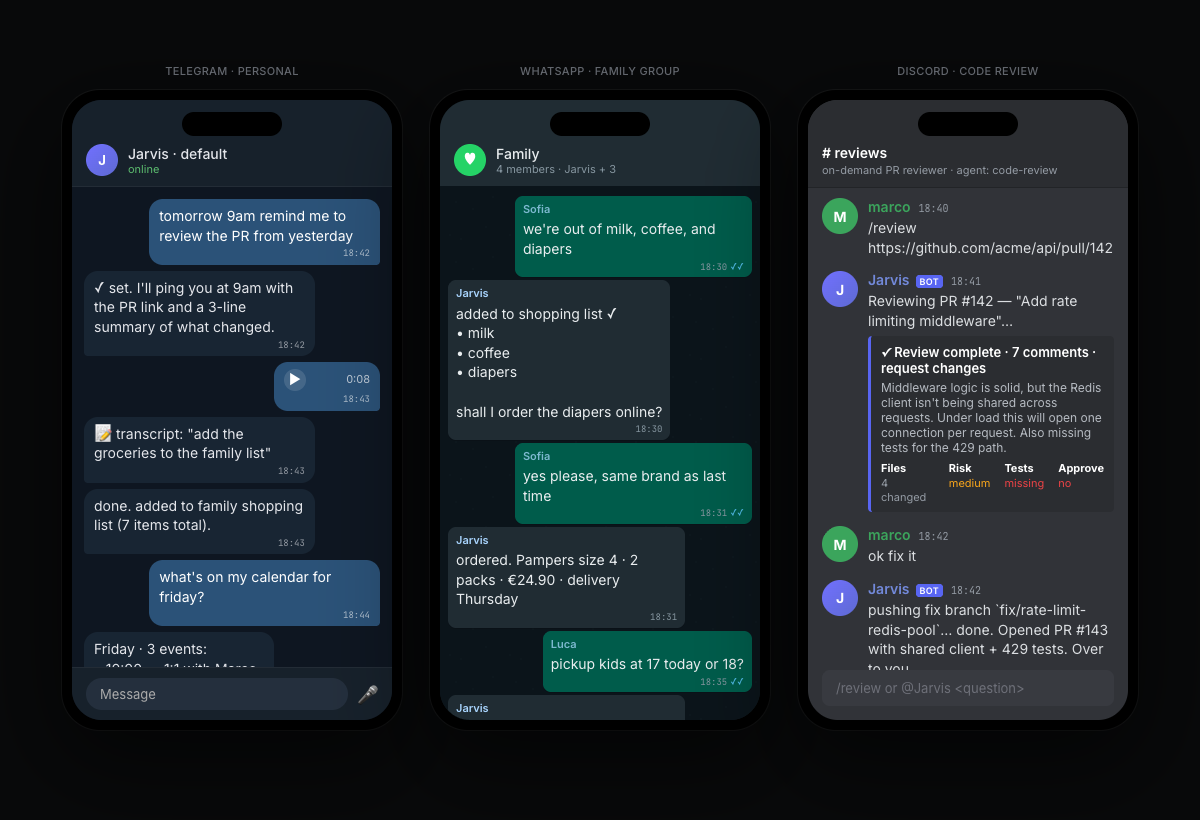
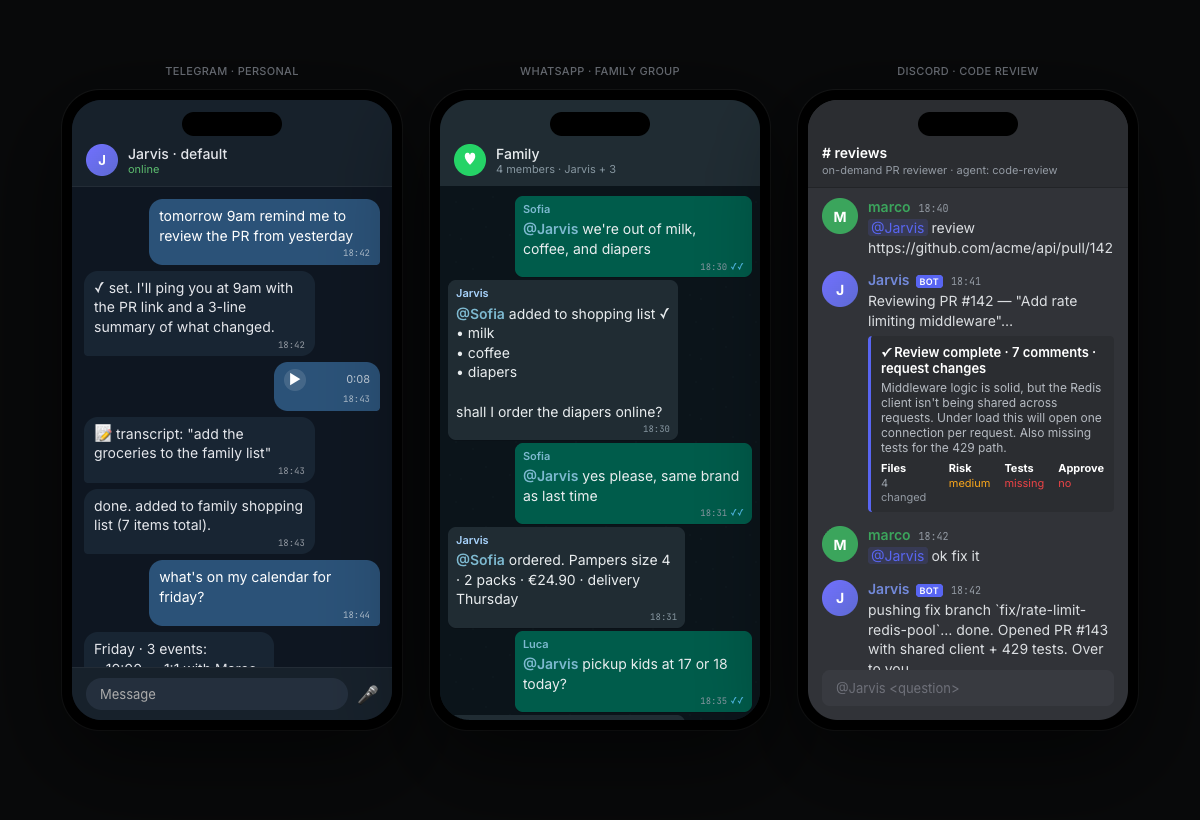
docs: rename to "Jarvis Claude Code" in prose, correct OpenAI requirement, add @mentions in group chat mockups
- README: use "Jarvis Claude Code" everywhere in prose and section
  headings; keep the slug form only where technically required (repo
  badge, command examples, package-style references)
- Clarify that OpenAI API key is OPTIONAL: ChromaDB runs on local
  all-MiniLM-L6-v2 embeddings via onnxruntime (no key), only Mem0
  fact-extraction uses OpenAI and can be swapped for Ollama
- Chat mockups: add @Jarvis mentions in WhatsApp family group and
  Discord #reviews, reflecting how the agent is actually invoked in
  multi-participant channels (Telegram DM remains untagged)

diff --git a/docs/demo/chats.html b/docs/demo/chats.html
@@ -129,32 +129,32 @@
     <div class="body">
       <div class="msg u">
         <div class="sender">Sofia</div>
-        we're out of milk, coffee, and diapers
+        <span style="color:#7db9d0;font-weight:600">@Jarvis</span> we're out of milk, coffee, and diapers
         <div class="t">18:30 <span class="check">✓✓</span></div>
       </div>
       <div class="msg a">
         <div class="sender" style="color:#a9d5ff">Jarvis</div>
-        added to shopping list ✓<br>• milk<br>• coffee<br>• diapers<br><br>shall I order the diapers online?
+        <span style="color:#7db9d0;font-weight:600">@Sofia</span> added to shopping list ✓<br>• milk<br>• coffee<br>• diapers<br><br>shall I order the diapers online?
         <div class="t">18:30</div>
       </div>
       <div class="msg u">
         <div class="sender">Sofia</div>
-        yes please, same brand as last time
+        <span style="color:#7db9d0;font-weight:600">@Jarvis</span> yes please, same brand as last time
         <div class="t">18:31 <span class="check">✓✓</span></div>
       </div>
       <div class="msg a">
         <div class="sender" style="color:#a9d5ff">Jarvis</div>
-        ordered. Pampers size 4 · 2 packs · €24.90 · delivery Thursday
+        <span style="color:#7db9d0;font-weight:600">@Sofia</span> ordered. Pampers size 4 · 2 packs · €24.90 · delivery Thursday
         <div class="t">18:31</div>
       </div>
       <div class="msg u">
         <div class="sender">Luca</div>
-        pickup kids at 17 today or 18?
+        <span style="color:#7db9d0;font-weight:600">@Jarvis</span> pickup kids at 17 or 18 today?
         <div class="t">18:35 <span class="check">✓✓</span></div>
       </div>
       <div class="msg a">
         <div class="sender" style="color:#a9d5ff">Jarvis</div>
-        17:00 — Sofia's calendar shows yoga 18–19
+        <span style="color:#7db9d0;font-weight:600">@Luca</span> 17:00 — Sofia's calendar shows yoga 18–19
         <div class="t">18:35</div>
       </div>
     </div>
@@ -182,7 +182,7 @@
             <span class="msg-name" style="color:#3ba55c">marco</span>
             <span class="msg-time">18:40</span>
           </div>
-          <div class="msg-text">/review https://github.com/acme/api/pull/142</div>
+          <div class="msg-text"><span style="color:#5865f2;background:rgba(88,101,242,0.15);padding:0 3px;border-radius:3px">@Jarvis</span> review https://github.com/acme/api/pull/142</div>
         </div>
       </div>
 
@@ -215,7 +215,7 @@
             <span class="msg-name" style="color:#3ba55c">marco</span>
             <span class="msg-time">18:42</span>
           </div>
-          <div class="msg-text">ok fix it</div>
+          <div class="msg-text"><span style="color:#5865f2;background:rgba(88,101,242,0.15);padding:0 3px;border-radius:3px">@Jarvis</span> ok fix it</div>
         </div>
       </div>
 
@@ -231,7 +231,7 @@
         </div>
       </div>
     </div>
-    <div class="input">/review or @Jarvis &lt;question&gt;</div>
+    <div class="input">@Jarvis &lt;question&gt;</div>
   </div>
 </div>
 

diff --git a/README.md b/README.md
@@ -1,4 +1,6 @@
-# jarvis-claudecode
+# Jarvis Claude Code
+
+<sub>`jarvis-claudecode` · zorahrel/jarvis-claudecode</sub>
 
 > Multi-channel router that brings the **Claude Code CLI** to Telegram, WhatsApp, and Discord — with per-route agents, persistent memory, media processing, a web dashboard, and a native macOS tray app.
 
@@ -12,7 +14,7 @@
   <img src="https://img.shields.io/badge/status-personal%20project-orange" alt="Personal project" />
 </p>
 
-`jarvis-claudecode` is a personal AI gateway. Messages arriving on any chat platform are matched against per-route agents — each with its own identity (`CLAUDE.md`), tool scope, memory, and model. A persistent Claude Code process runs per session key, so conversations retain context across messages.
+Jarvis Claude Code is a personal AI gateway. Messages arriving on any chat platform are matched against per-route agents — each with its own identity (`CLAUDE.md`), tool scope, memory, and model. A persistent Claude Code process runs per session key, so conversations retain context across messages.
 
 **Keywords**: Claude Code, Claude Code CLI, Telegram bot, WhatsApp bot, Discord bot, MCP, ChromaDB, Mem0, multi-channel AI assistant, personal AI agent, macOS menu bar.
 
@@ -20,7 +22,7 @@
 
 ## Table of Contents
 
-- [Why jarvis-claudecode](#why-jarvis-claudecode)
+- [Why Jarvis Claude Code](#why-jarvis-claude-code)
 - [Use Cases](#use-cases)
 - [Features](#features)
 - [Architecture at a Glance](#architecture-at-a-glance)
@@ -34,19 +36,19 @@
 - [Contributing](#contributing)
 - [License](#license)
 
-## Why jarvis-claudecode
+## Why Jarvis Claude Code
 
-The Claude Code CLI is powerful on the desktop — but chat apps are where most real-world requests happen. `jarvis-claudecode` exposes that same CLI through the messaging channels you already use, while keeping:
+The Claude Code CLI is powerful on the desktop — but chat apps are where most real-world requests happen. Jarvis Claude Code exposes that same CLI through the messaging channels you already use, while keeping:
 
 - **One agent per context** — personal DM, work group, and public channel can each run a different agent with different tools, memory, and permissions.
 - **Real conversation memory** — ChromaDB indexes your notes, Mem0 extracts facts from conversation history.
 - **Media-in, media-out** — voice notes get transcribed, images go to vision, PDFs become text, and Claude's file edits come back as attachments.
 - **Native and local** — no Docker, no cloud router. Services run as macOS LaunchAgents and are controlled from a tray app.
-- **Uses your Claude subscription, not API keys** — because the backend is the Claude Code CLI (OAuth-authenticated against your Max / Pro / Team plan), you pay zero per-token costs for the agents. The only API cost is ~$0.02/mo of OpenAI embeddings for memory. This makes it a compelling alternative to router projects like [OpenClaw][o] that run on metered provider API keys.
+- **Uses your Claude subscription, not API keys** — because the backend is the Claude Code CLI (OAuth-authenticated against your Max / Pro / Team plan), you pay zero per-token costs for the agents. Memory runs locally by default (ChromaDB on-device embeddings); a small OpenAI cost (~$0.02/mo) applies only if you enable the Mem0 fact-extraction layer, and that too can be swapped for Ollama. This makes it a compelling alternative to router projects like [OpenClaw][o] that run on metered provider API keys.
 
 ## Use Cases
 
-`jarvis-claudecode` started as a personal assistant, but one router can host an arbitrary number of specialized agents — each with its own identity, tools, and chat audience. A few patterns that work well:
+Jarvis Claude Code started as a personal assistant, but one router can host an arbitrary number of specialized agents — each with its own identity, tools, and chat audience. A few patterns that work well:
 
 - **Personal productivity hub** — one agent in your Telegram DM with full memory, calendar, email, and file access. Voice a task while walking and get a reply with the output file attached.
 - **Family agents** — a dedicated agent per family member (or a shared family-group agent), each with their own `agents/<name>/CLAUDE.md` personality and scoped memory. Kids get a read-only agent, parents get a full-access one.
@@ -123,7 +125,7 @@ Full design: [`ARCHITECTURE.md`](ARCHITECTURE.md).
 - Python 3.11+ (for ChromaDB and Mem0 servers)
 - [Claude Code CLI](https://docs.claude.com/en/docs/claude-code)
 - `ffmpeg`, `whisper-cli` (whisper.cpp), `pdftotext` for media processing
-- OpenAI API key (used only for embeddings and Mem0 fact extraction)
+- **Optional**: OpenAI API key — only needed if you enable Mem0 conversation fact extraction. ChromaDB uses local embeddings (`all-MiniLM-L6-v2` via onnxruntime, no key required). You can also point Mem0 at Ollama for fully local memory.
 
 ## Quick Start
 
@@ -187,9 +189,9 @@ services:
 
 ## How it Compares
 
-There are a few excellent projects in the "Claude Code as a bot backend" space. Here is how `jarvis-claudecode` positions itself against them, so you can pick the right tool for your use case:
+There are a few excellent projects in the "Claude Code as a bot backend" space. Here is how Jarvis Claude Code positions itself against them, so you can pick the right tool for your use case:
 
-| | **jarvis-claudecode** | [sbusso/claudeclaw][s] | [openclaw/openclaw][o] | [moazbuilds/claudeclaw][m] |
+| | **Jarvis Claude Code** | [sbusso/claudeclaw][s] | [openclaw/openclaw][o] | [moazbuilds/claudeclaw][m] |
 |---|---|---|---|---|
 | **Agent engine** | Claude Code CLI spawn | Claude Agent SDK (`query()`) | Pi runtime (proprietary) | Claude Code CLI spawn (Bun) |
 | **Models** | Claude only | Claude only | Multi-provider | Claude only |
@@ -206,7 +208,7 @@ There are a few excellent projects in the "Claude Code as a bot backend" space. 
 [o]: https://github.com/openclaw/openclaw
 [m]: https://github.com/moazbuilds/claudeclaw
 
-### What `jarvis-claudecode` does differently
+### What Jarvis Claude Code does differently
 
 **Pros**
 
@@ -226,7 +228,7 @@ There are a few excellent projects in the "Claude Code as a bot backend" space. 
 - **Claude-only** — if you need OpenAI/Gemini/local models as peers, OpenClaw is a better fit.
 - **Fewer channels than OpenClaw** — Telegram, WhatsApp, and Discord cover most personal use, but there's no Matrix/Signal/Slack out of the box.
 
-Use `jarvis-claudecode` if you want a personal, Claude-Code-native, config-driven router on your own Mac. Use the alternatives if you need kernel sandboxing, multi-provider model support, or 20+ channels.
+Use Jarvis Claude Code if you want a personal, Claude-Code-native, config-driven router on your own Mac. Use the alternatives if you need kernel sandboxing, multi-provider model support, or 20+ channels.
 
 ## Project Layout
 
